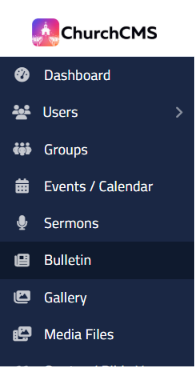
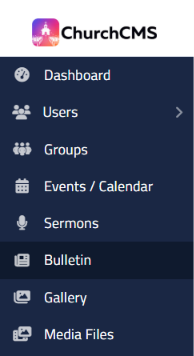
Added bulletins & media files management document

diff --git a/settings/documents.ts b/settings/documents.ts
@@ -210,6 +210,20 @@ export const Documents: Paths[] = [
   ],
 },
 {
+  title: 'Media Files',
+  href: '/modules/media-files-management',
+  items: [
+    {
+      title: 'Media Library',
+      href: '/media-library',
+    },
+    {
+      title: 'How to Add an Image',
+      href: '/add-image',
+    },
+  ],
+},
+{
   title: 'Bulletin Management',
   href: '/modules/bulletin-management',
   items: [
@@ -220,6 +234,10 @@ export const Documents: Paths[] = [
     {
       title: 'How to Add a Bulletin',
       href: '/add-bulletin',
+    },
+    {
+      title: 'How to Edit a Bulletin',
+      href: '/edit-bulletin',
     },
 
   ],
